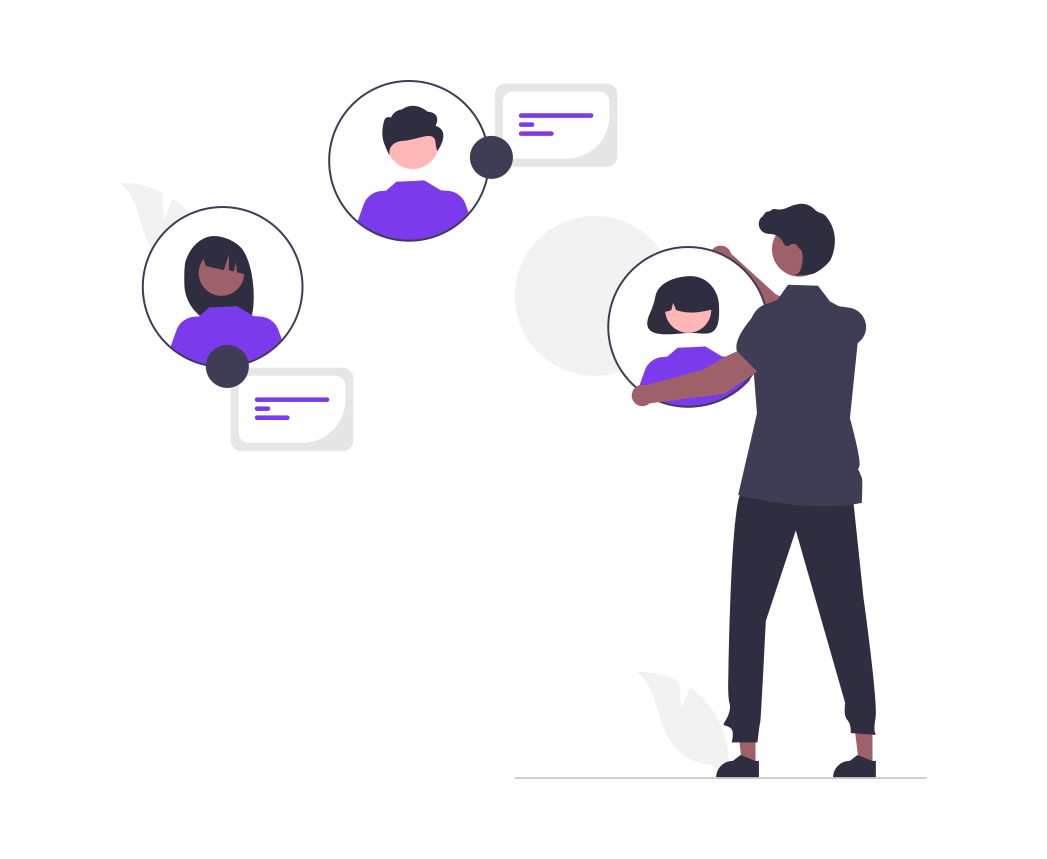
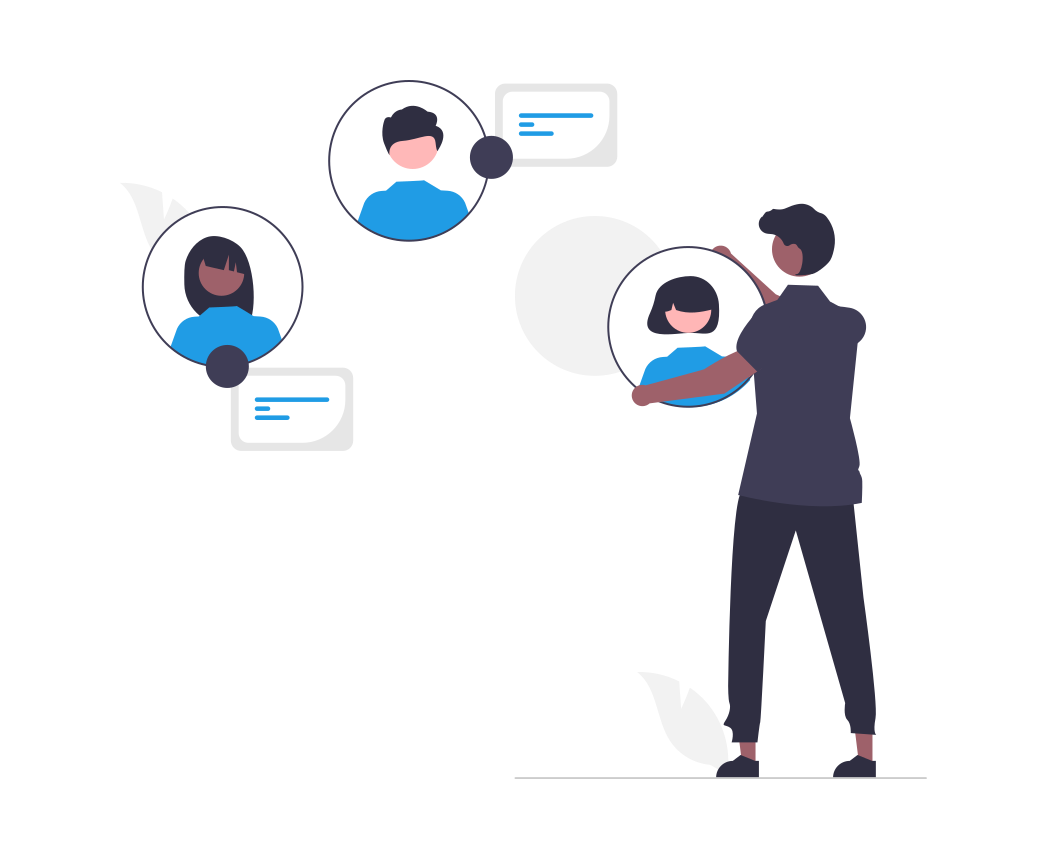
added login feature [frontend] and changed route method [backend]

diff --git a/frontend/src/pages/Login.jsx b/frontend/src/pages/Login.jsx
@@ -1,6 +1,17 @@
 import loginImg from "../assets/images/login.png";
+import { useRef, useState } from "react";
+import { useAuth } from "../providers/AuthProvider";
+import { useNavigate } from "react-router-dom";
+import RadioBtn from "../styled_components/RadioBtn";
 
 export default function Login() {
+    const emailRef = useRef();
+    const passwordRef = useRef();
+    const [loginErr, setLoginErr] = useState(false);
+    const [role, setRole] = useState("student");
+    const { setAuth, setAuthUser } = useAuth();
+    const navigate = useNavigate();
+
     return (
         <div className="bg-slate-100 flex justify-center items-center h-screen overflow-hidden">
             <div className="w-1/2 h-screen hidden lg:block">
@@ -8,19 +19,69 @@ export default function Login() {
             </div>
             <div className="lg:p-36 md:p-52 sm:20 p-8 w-full lg:w-1/2">
                 <h1 className="text-2xl font-semibold mb-4 text-center text-gradient">Welcome to Club4Stud</h1>
-                <form action="#" method="POST">
+                {loginErr && <p>Incorrect email or password</p>}
+                <form onSubmit={(e) => {
+                    e.preventDefault();
+                    const email = emailRef.current.value;
+                    const password = passwordRef.current.value;
+
+                    (async () => {
+                        const api = import.meta.env.VITE_API_URL;
+                        const res = await fetch(`${api}/api/login`, {
+                            method: "POST",
+                            body: JSON.stringify({ email, password, role }),
+                            headers: {
+                                "Content-Type": "application/json"
+                            }
+                        });
+
+                        if (!res.ok) {
+                            setLoginErr(true);
+                            return false;
+                        }
+
+                        const data = await res.json();
+                        localStorage.setItem("token", data.token);
+
+                        fetch(`${api}/api/verify`, {
+                            headers: {
+                                Authorization: `Bearer ${data.token}`,
+                            },
+                        })
+                            .then(res => res.json())
+                            .then(user => {
+                                setAuth(true);
+                                setAuthUser(user);
+
+                                if (user.role === "school_admin") {
+                                    navigate("/school_admin/dashboard");
+                                } else if (user.role === "club_admin") {
+                                    navigate("/club_admin/dashboard");
+                                } else if (user.role === "student") {
+                                    navigate("/student/home");
+                                }
+                            });
+                    })();
+                }}>
+                    <div className="mb-2">
+                        <p className="text-slate-600 font-semibold">Role</p>
+                        <RadioBtn text="student" label="Student" role={role} setRole={setRole} />
+                        <RadioBtn text="club_admin" label="Club Admin" role={role} setRole={setRole} />
+                        <RadioBtn text="school_admin" label="School Admin" role={role} setRole={setRole} />
+
+                    </div>
+
                     <label className="block">
-                        <p className="text-slate-600 mb-2">Email</p>
-                        <input type="email" id="email" name="email" className="peer w-full border border-slate-300 rounded-md py-2 px-3 focus:outline-none focus:border-violet-600" />
-                        <p className="mt-1 invisible peer-invalid:visible text-indigo-600 text-sm">
+                        <p className="text-slate-600 mb-2 font-semibold">Email</p>
+                        <input type="email" placeholder="name@example.com" className="peer w-full border border-slate-300 rounded-md py-2 px-3 focus:outline-none focus:border-blue-500" ref={emailRef} />
+                        <p className="mt-1 invisible peer-invalid:visible text-slate-600 text-sm">
                             Please provide a valid email address.
                         </p>
                     </label>
                     <div className="mb-8">
-                        <label htmlFor="password" className="block text-slate-600 mb-2">Password</label>
-                        <input type="password" id="password" name="password" className="peer w-full border border-slate-300 rounded-md py-2 px-3 focus:outline-none focus:border-violet-600" />
-                        <p className="mt-1 invisible peer-invalid:visible text-indigo-600 text-sm">
-
+                        <label htmlFor="password" className="block text-slate-600 mb-2 font-semibold">Password</label>
+                        <input type="password" className="peer w-full border border-slate-300 rounded-md py-2 px-3 focus:outline-none focus:border-blue-500" ref={passwordRef} />
+                        <p className="mt-1 invisible peer-invalid:visible text-slate-600 text-sm">
                         </p>
                     </div>
                     <button type="submit" className="bg-gradient text-white font-semibold rounded-md py-2 px-4 w-full">Login</button>

diff --git a/frontend/src/styled_components/RadioBtn.jsx b/frontend/src/styled_components/RadioBtn.jsx
@@ -1,0 +1,21 @@
+export default function RadioBtn({ text, label, role, setRole }) {
+    return (
+        <div className="inline-flex items-center -ml-3 mr-3">
+            <label className="relative flex items-center p-3 rounded-full cursor-pointer" htmlFor="html">
+                <input type="radio" name="role" value={text}
+                    className="before:content[''] peer relative h-4 w-4 cursor-pointer appearance-none rounded-full border border-slate-500 text-slate-500 transition-all before:absolute before:top-2/4 before:left-2/4 before:block before:h-12 before:w-12 before:-translate-y-2/4 before:-translate-x-2/4 before:rounded-full before:bg-blue-gray-500 before:opacity-0 before:transition-opacity checked:border-slate-500 checked:before:bg-slate-500"
+                    id={text} onChange={(e) => setRole(e.target.value)} checked={role === text} />
+                <span
+                    className="absolute text-slate-500 transition-opacity opacity-0 pointer-events-none top-2/4 left-2/4 -translate-y-2/4 -translate-x-2/4 peer-checked:opacity-100">
+                    <svg xmlns="http://www.w3.org/2000/svg" className="h-2.5 w-2.5" viewBox="0 0 16 16" fill="currentColor">
+                        <circle data-name="ellipse" cx="8" cy="8" r="8"></circle>
+                    </svg>
+                </span>
+            </label>
+            <label className="-ml-1 -mt-.5 text-slate-500 cursor-pointer select-none" htmlFor={text}>
+                {label}
+            </label>
+        </div>
+
+    )
+}

diff --git a/frontend/src/App.jsx b/frontend/src/App.jsx
@@ -1,12 +1,17 @@
 import { BrowserRouter, Routes, Route } from "react-router-dom";
 import Login from "./pages/Login";
 import Error from "./pages/Error";
+import Dashboard from "./pages/school_admin/Dashboard";
+import Home from "./pages/student/Home";
 
 export default function App() {
     return (
         <BrowserRouter>
             <Routes>
+                <Route path="/" element={<Login />} />
                 <Route path="login" element={<Login />} />
+                <Route path="school_admin/dashboard" element={<Dashboard />} />
+                <Route path="student/home" element={<Home />} />
                 <Route path="*" element={<Error />} />
             </Routes>
         </BrowserRouter>

diff --git a/frontend/src/pages/school_admin/Dashboard.jsx b/frontend/src/pages/school_admin/Dashboard.jsx
@@ -1,0 +1,21 @@
+import { useNavigate } from "react-router-dom";
+import { useAuth } from "../../providers/AuthProvider";
+
+export default function Dashboard() {
+    const { setAuth, setAuthUser } = useAuth();
+    const navigate = useNavigate();
+
+    return (
+        <>
+            <h2>Dashboard</h2>
+            <button type="button" onClick={() => {
+                setAuth(false);
+                setAuthUser({});
+                localStorage.removeItem("token");
+                navigate("/");
+            }}>
+                Logout
+            </button>
+        </>
+    );
+}

diff --git a/frontend/src/pages/student/Home.jsx b/frontend/src/pages/student/Home.jsx
@@ -1,0 +1,21 @@
+import { useNavigate } from "react-router-dom";
+import { useAuth } from "../../providers/AuthProvider";
+
+export default function Home() {
+    const { setAuth, setAuthUser } = useAuth();
+    const navigate = useNavigate();
+
+    return (
+        <>
+            <h2>Student Home</h2>
+            <button type="button" onClick={() => {
+                setAuth(false);
+                setAuthUser({});
+                localStorage.removeItem("token");
+                navigate("/");
+            }}>
+                Logout
+            </button>
+        </>
+    );
+}

diff --git a/frontend/src/providers/AuthProvider.jsx b/frontend/src/providers/AuthProvider.jsx
@@ -14,9 +14,9 @@ export default function AuthProvider({ children }) {
         const token = localStorage.getItem("token");
         (async () => {
             const api = import.meta.env.VITE_API_URL;
-            const res = await fetch(`${api}/verify`, {
+            const res = await fetch(`${api}/api/verify`, {
                 headers: {
-                    "Authorization": `Bearer ${token}`
+                    Authorization: `Bearer ${token}`
                 }
             });
 

diff --git a/frontend/src/index.css b/frontend/src/index.css
@@ -4,10 +4,10 @@
 
 @layer components {
     .bg-gradient {
-        @apply bg-gradient-to-r from-violet-600 to-indigo-600;
+        @apply bg-gradient-to-r from-blue-500 to-cyan-500;
     }
 
     .text-gradient {
-        @apply bg-gradient-to-r from-violet-600 to-indigo-600 bg-clip-text text-transparent;
-    }
+        @apply bg-gradient-to-r from-blue-500 to-cyan-500 bg-clip-text text-transparent;
+    }    
 }

diff --git a/backend/controllers/authentication.js b/backend/controllers/authentication.js
@@ -34,9 +34,9 @@ const login = wrapper(async (req, res) => {
     return res.status(401).json({ error: "Incorrect email or password" });
 });
 
-const verify = wrapper(async (req, res) => {
+const verify = (req, res) => {
     return res.status(200).json(res.locals.user);
-});
+};
 
 module.exports = {
     login,

diff --git a/backend/routes/authentication.js b/backend/routes/authentication.js
@@ -3,6 +3,6 @@ const { login, verify } = require("../controllers/authentication");
 const { auth } = require("../middlewares/auth");
 
 router.post("/api/login", login);
-router.post("/api/verify", auth, verify);
+router.get("/api/verify", auth, verify);
 
 module.exports = router;
